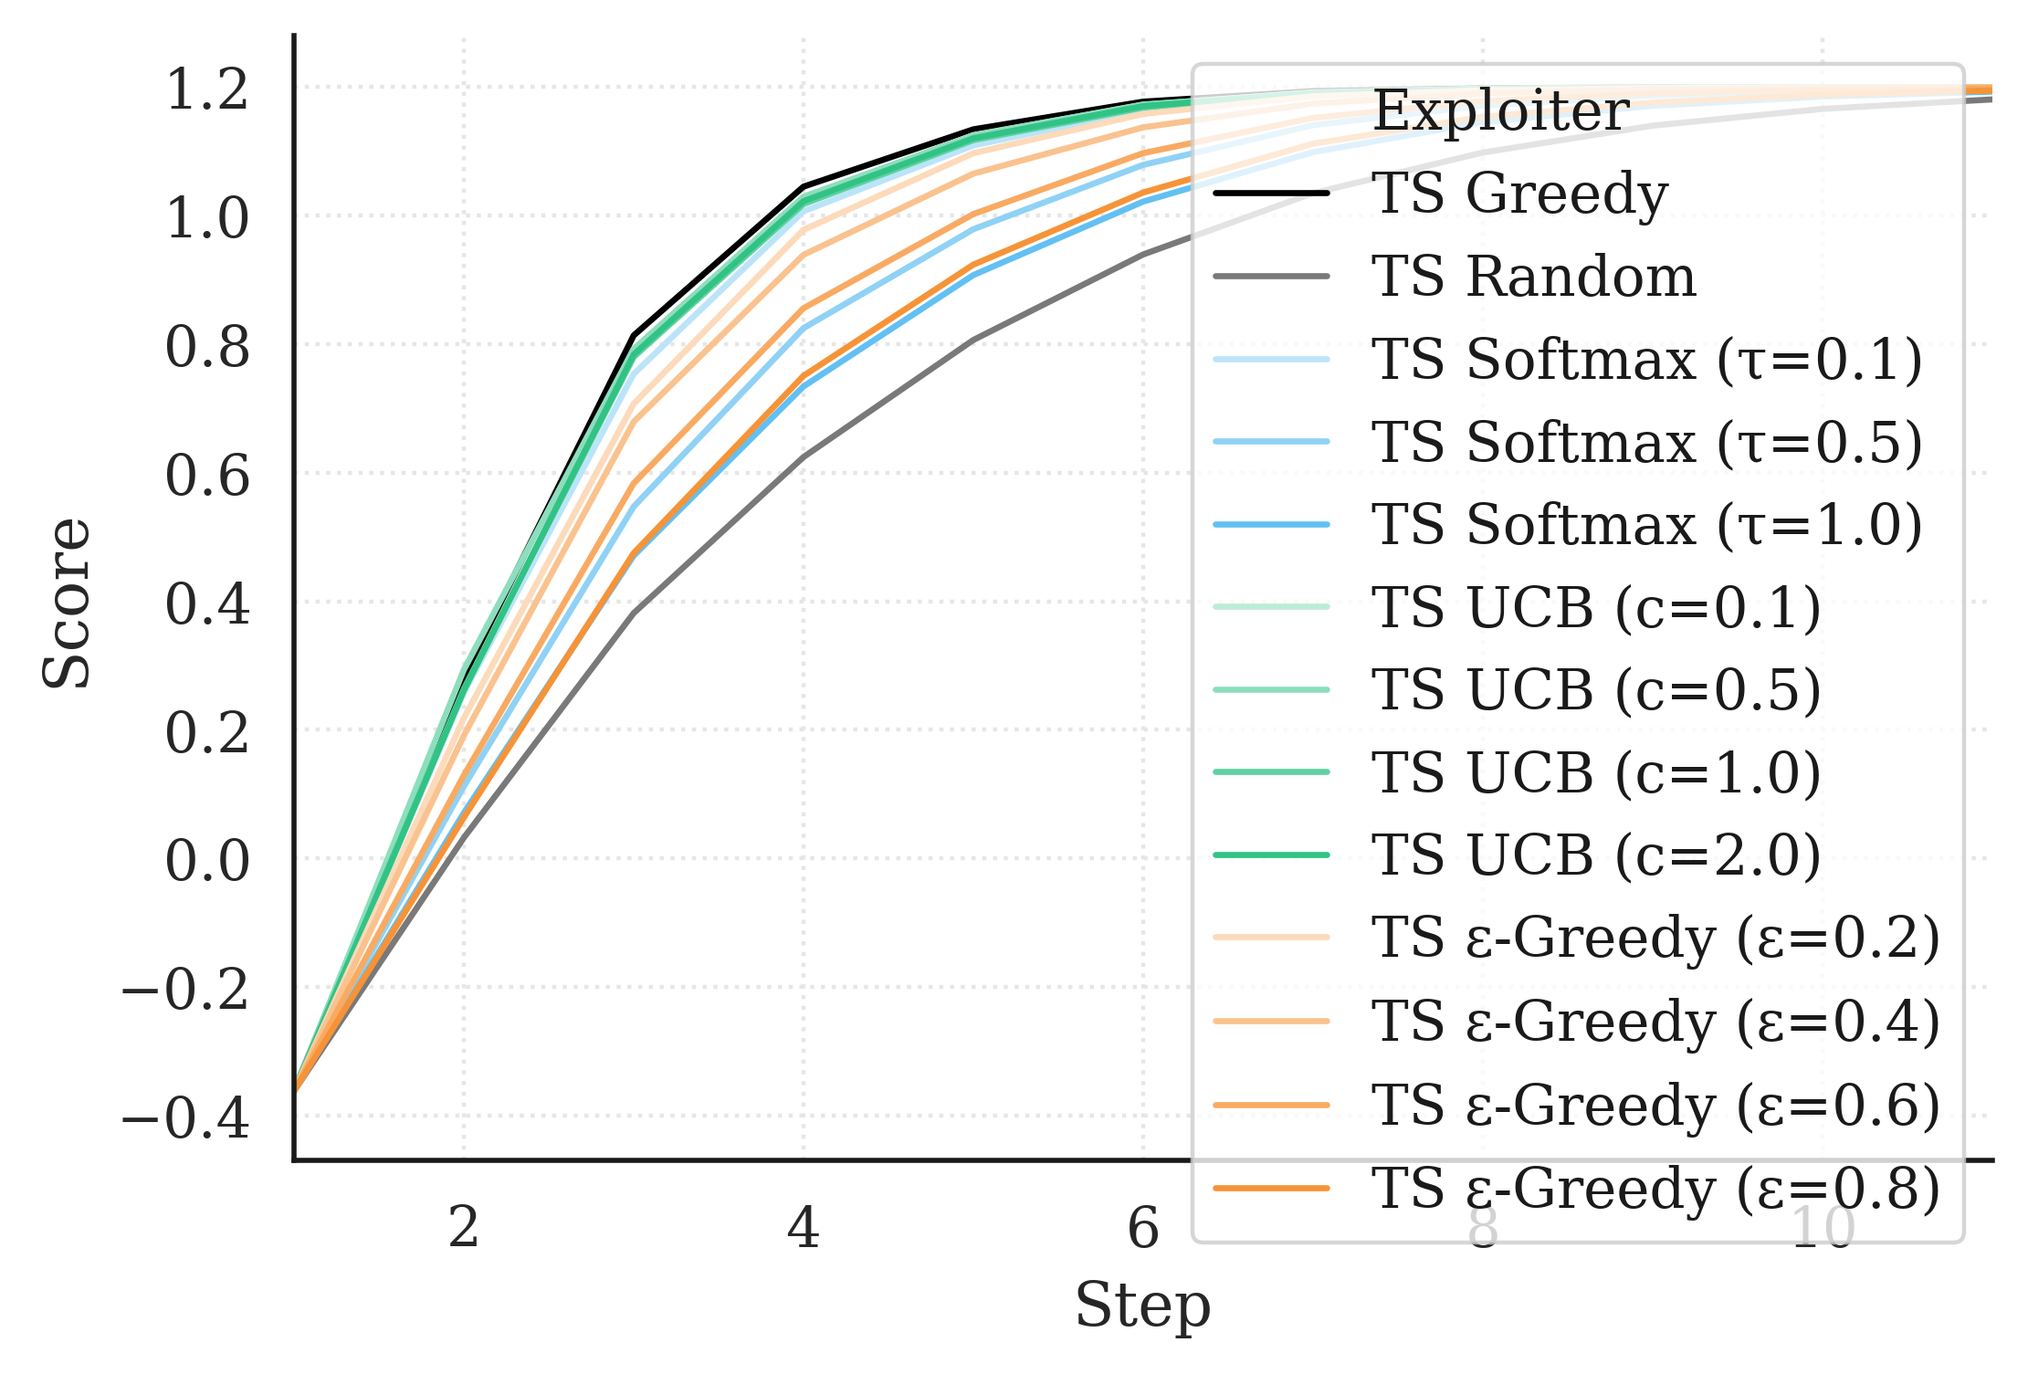
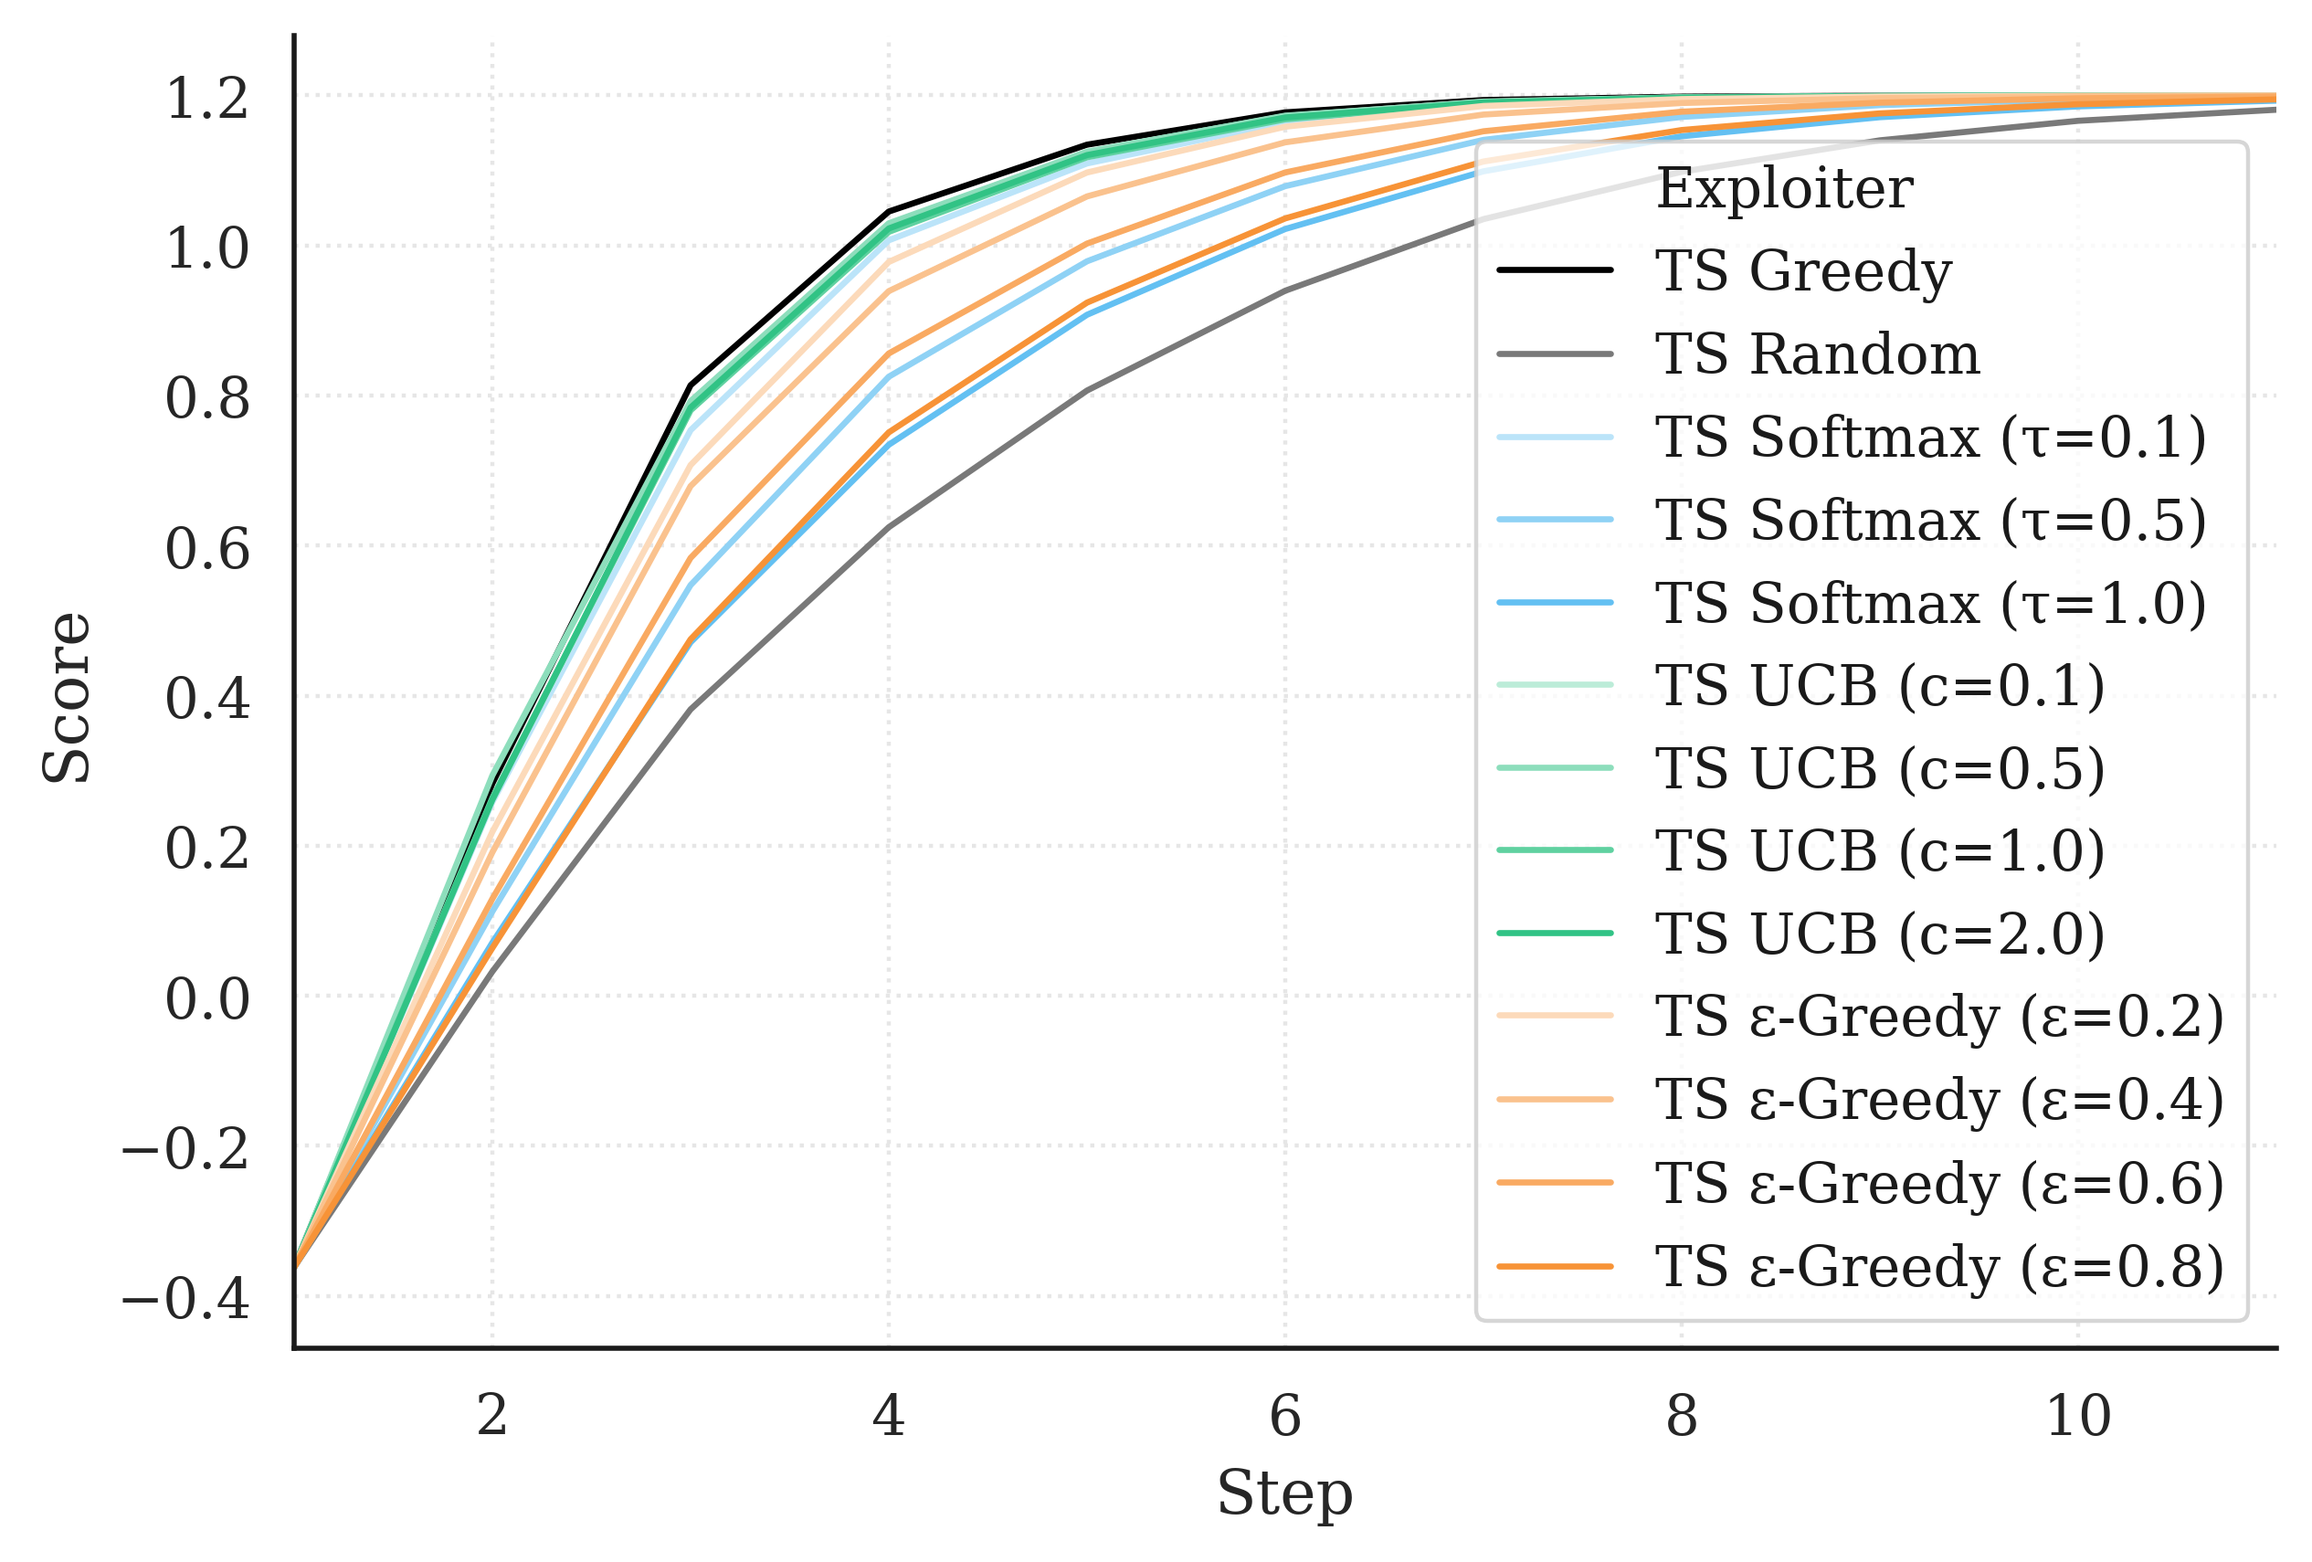
fixed all toy graph

diff --git a/tsucb/pbt/examples/pbt_paper_toy_example.py b/tsucb/pbt/examples/pbt_paper_toy_example.py
@@ -265,7 +265,7 @@ def run_dual_test():
         keys = {e[0]['Exploiter'] for e in xpltrs}
         data = aggregated.loc[aggregated['Exploiter'].isin(keys)]
         # PLOT
-        plt.figure(figsize=(6, 4))
+        plt.figure(figsize=(6*7/6, 4*7/6))
         plt.xlim((1, 11))
         sns.lineplot(x="Step", y="Score", data=data, hue="Exploiter", palette=palette)
         if options['SAVE_GRAPHS']:
